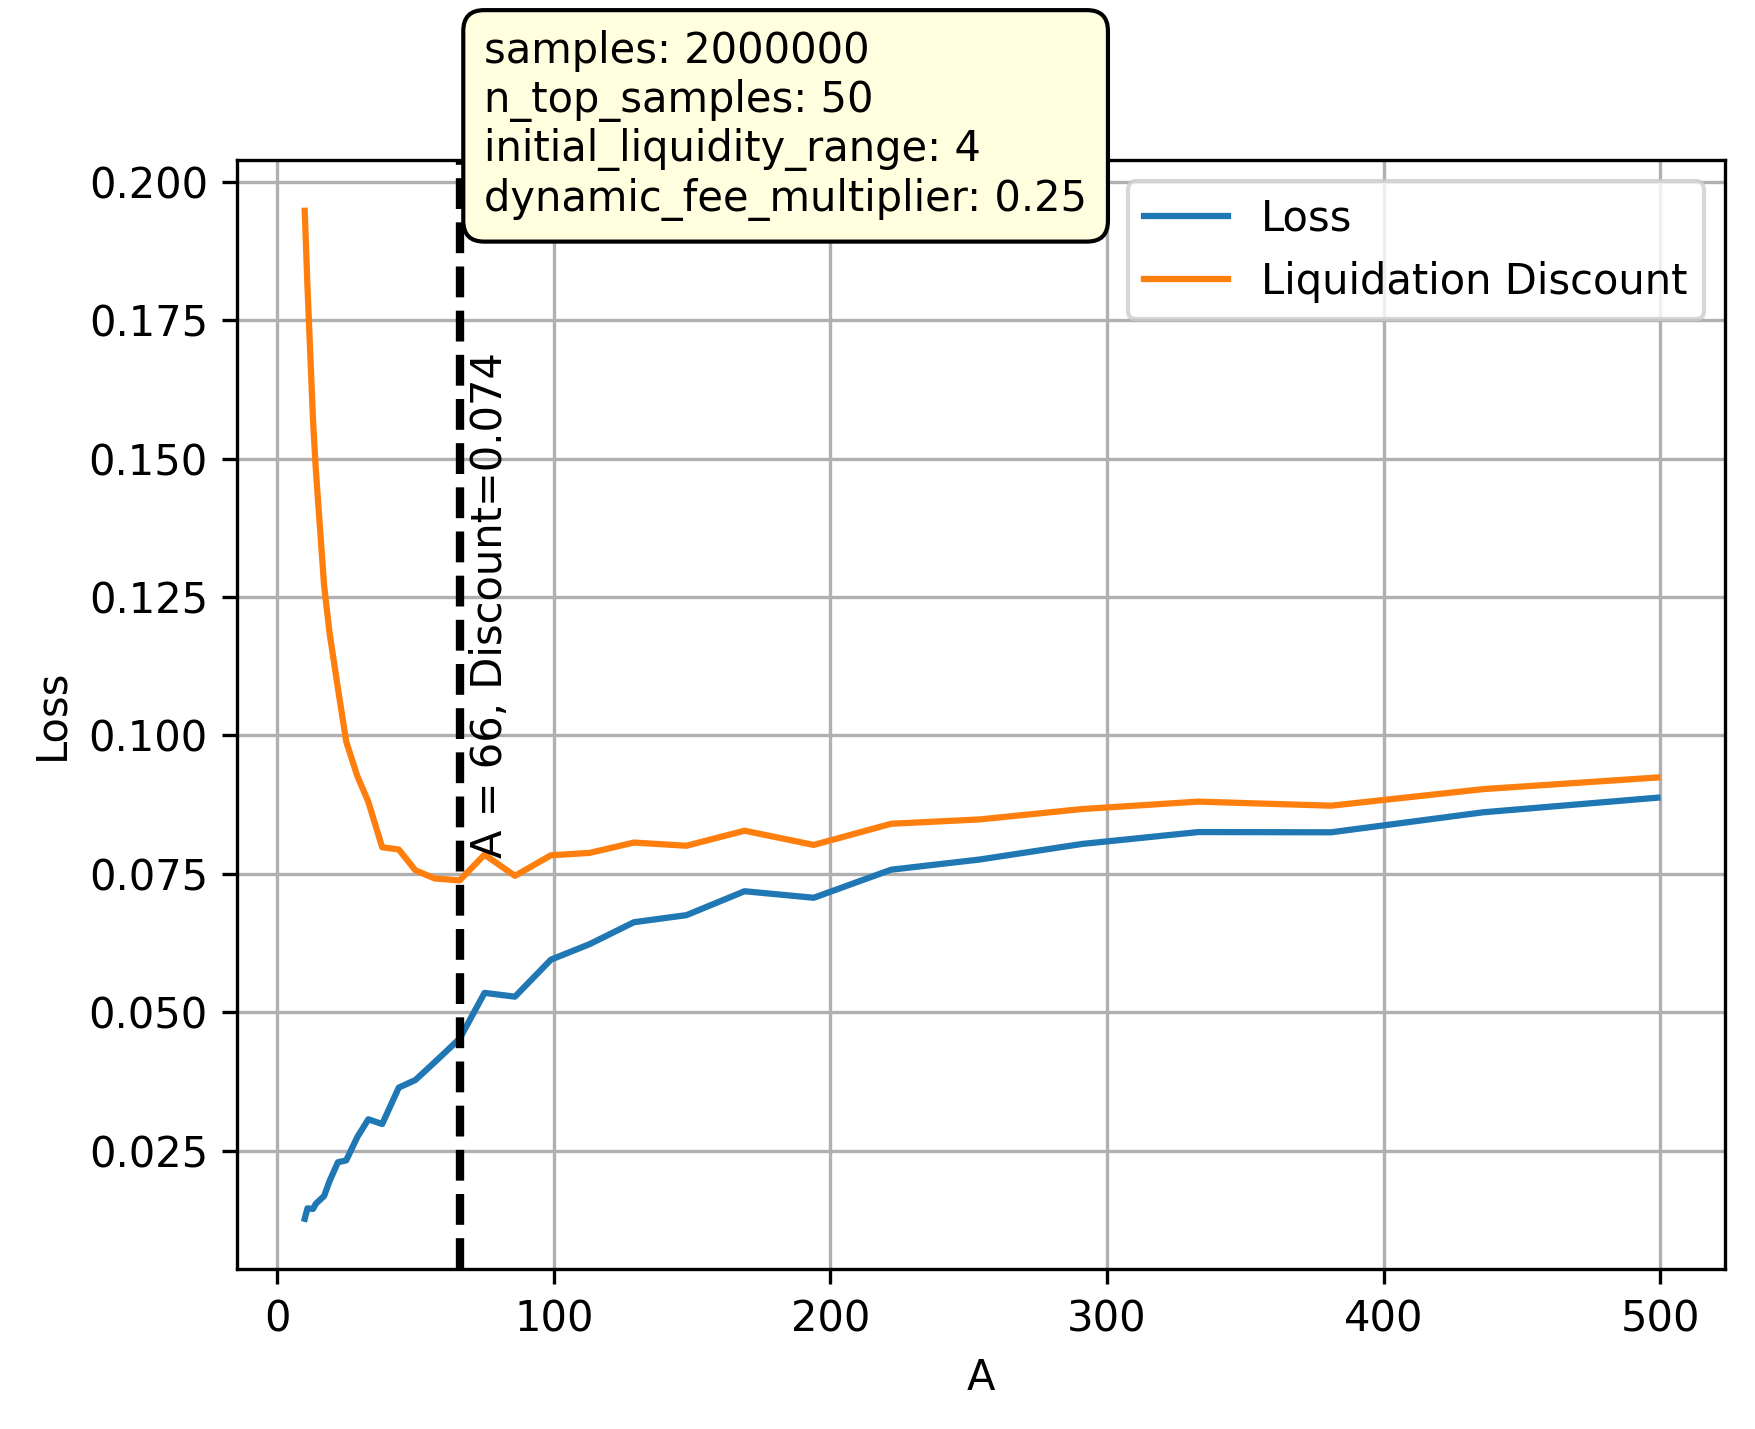
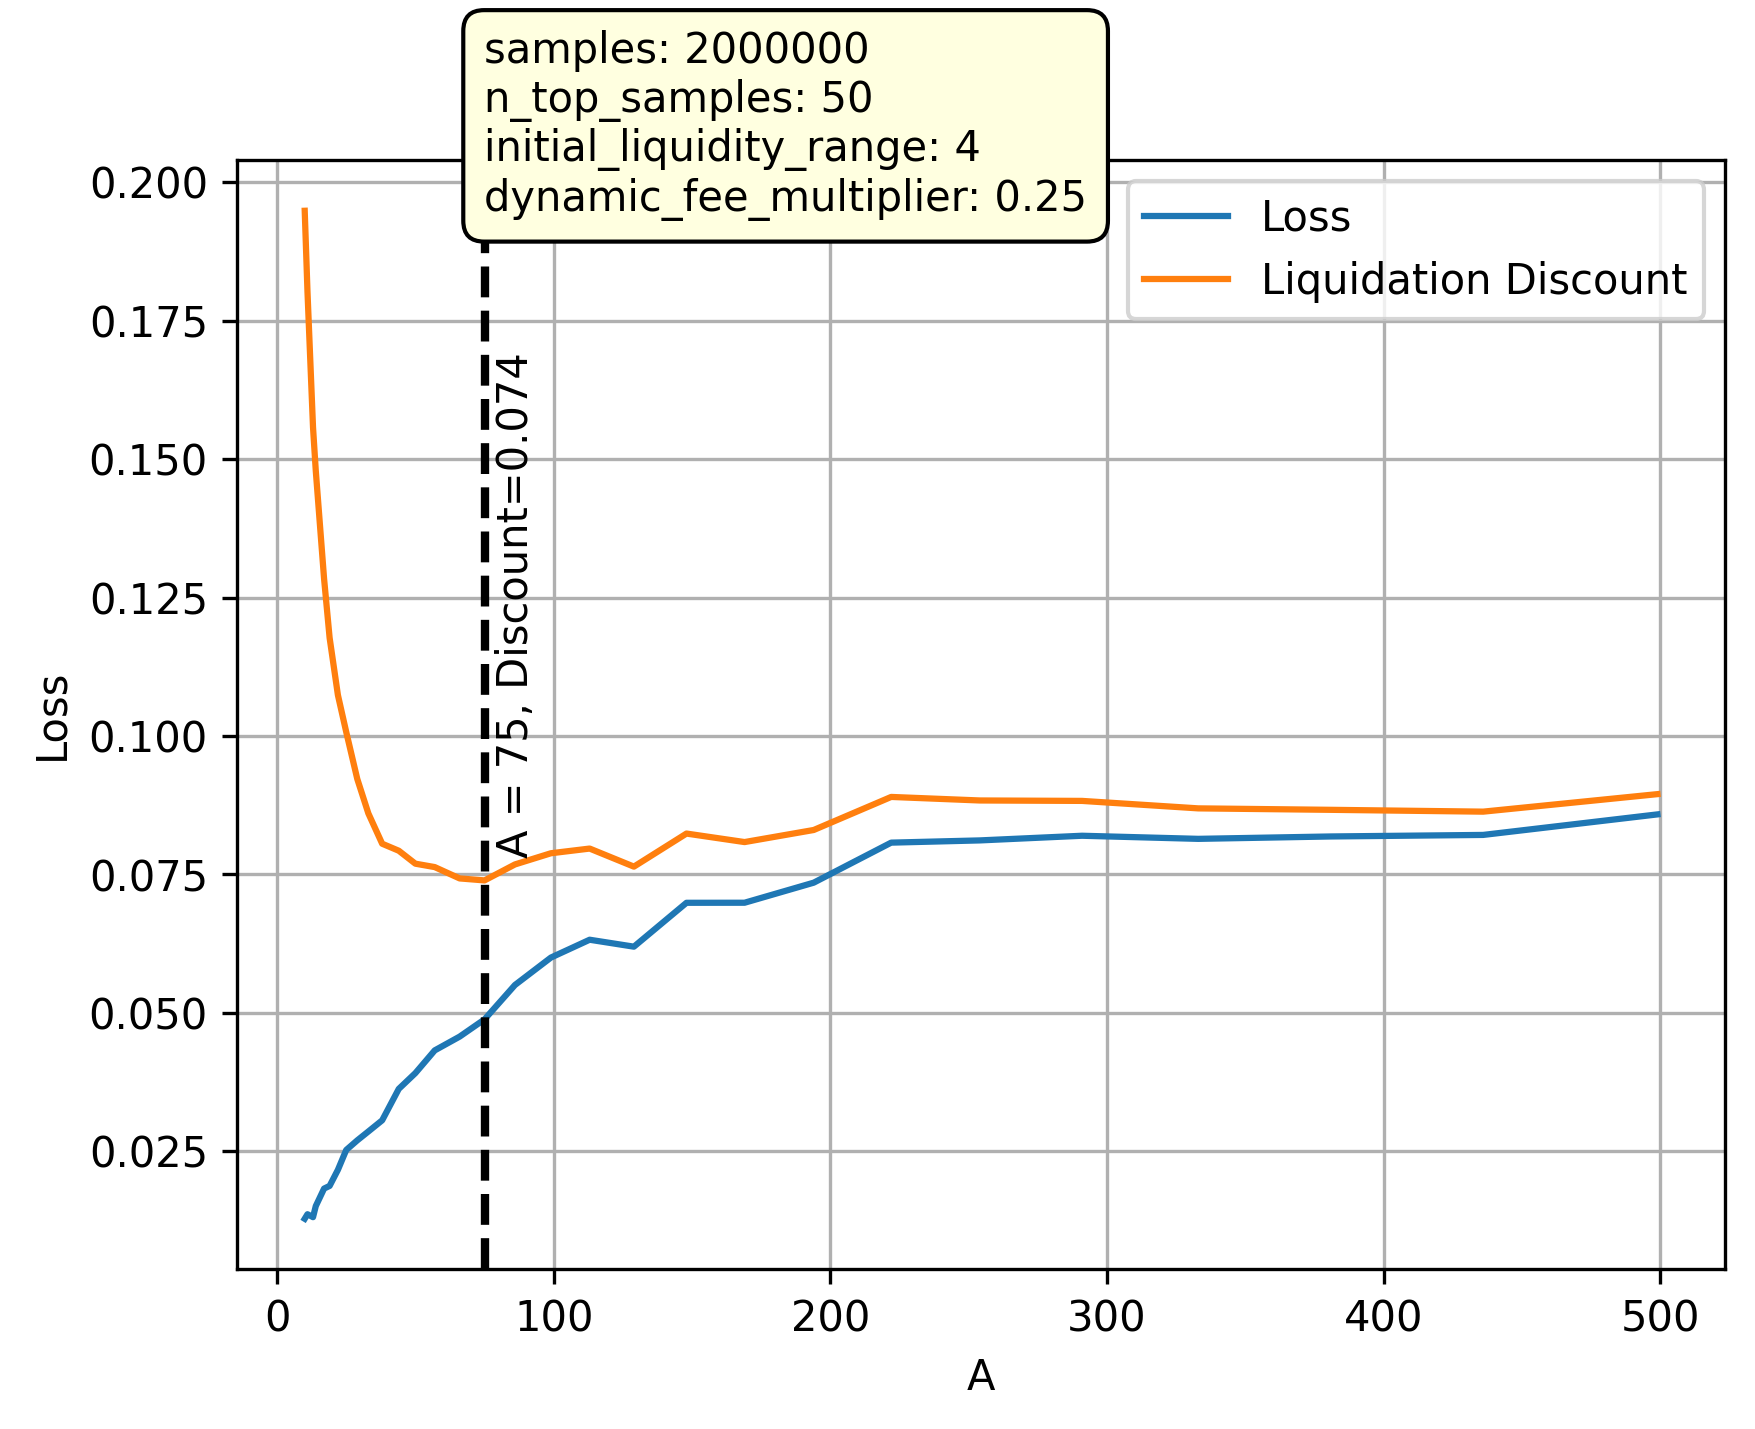
filter out non-down periods

diff --git a/simulator/amm/price_history_loader.py b/simulator/amm/price_history_loader.py
@@ -52,6 +52,9 @@ class VolatilityPriceHistoryLoader(GenericPriceHistoryLoader):
 
         self.max_drawdown = None
 
+        # used for checking if price in this period is down from open
+        self.drawdown_index = 0.9
+
     def calculate_max_drawdown(self):
         current_window = deque()
         max_drawdown = 0
@@ -78,7 +81,7 @@ class VolatilityPriceHistoryLoader(GenericPriceHistoryLoader):
 
         return self.prices[position_start:position_end]
 
-    def change_period(self, period: list) -> list:
+    def change_period(self, period: list) -> tuple[bool, list]:
         """
         :param period: period in days
         :return: list of prices
@@ -111,7 +114,14 @@ class VolatilityPriceHistoryLoader(GenericPriceHistoryLoader):
 
             result.append((t, open, high, low, close, volume))
 
-        return result
+        # we take into account periods in which prices go down
+        # otherwise we won't get significant losses
+        is_down = True
+        open = period[0][1]
+        if (open - window_low) / open < current_drawdown * self.drawdown_index:
+            is_down = False
 
-    def load_random_changed_period(self) -> list:
+        return is_down, result
+
+    def load_random_changed_period(self) -> tuple[bool, list]:
         return self.change_period(self.load_random_period())

diff --git a/simulator/amm/simulator.py b/simulator/amm/simulator.py
@@ -223,8 +223,11 @@ class SimulatorV2(Simulator):
         )  # end of position in prices array
 
         prices_for_simulation = self.prices[position_start_index:position_end_index]
-        prices_for_simulation = self.price_history_loader.change_period(prices_for_simulation)
+        is_down, prices_for_simulation = self.price_history_loader.change_period(prices_for_simulation)
         oracle_prices_for_simulation = self.oracle_prices[position_start_index:position_end_index]
+
+        if not is_down:
+            return 0
 
         return self.calculate_loss(
             A,
